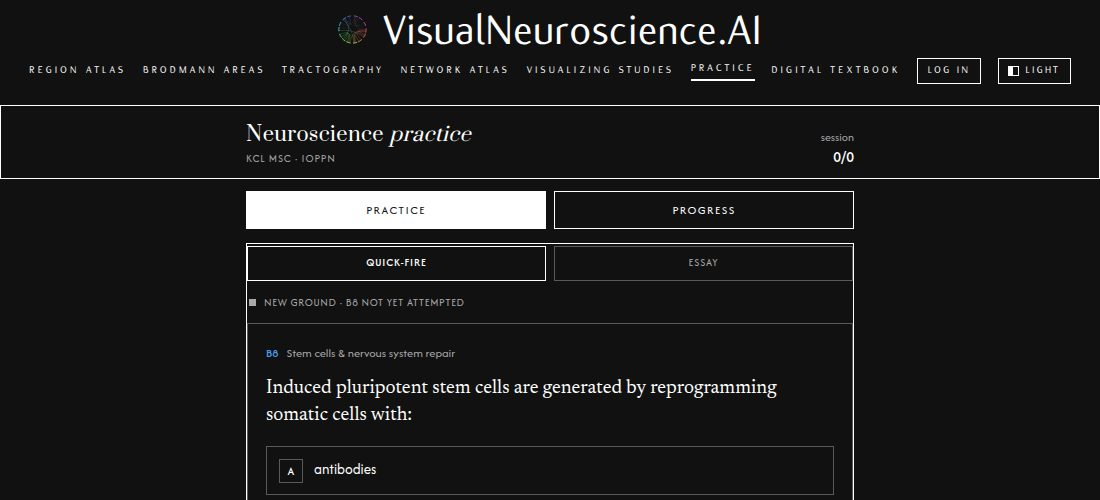
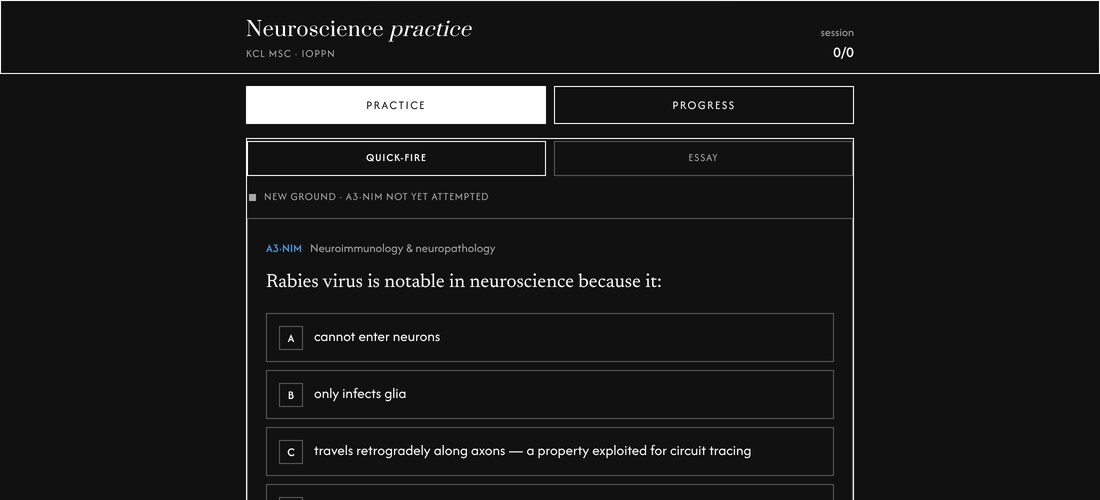
Give every home-page picture a twin drawn on the paper for the light theme, on the website and in the app
The boxes on the home page and in the app's tabs showed renders on black whichever theme was on. Each picture now has a twin for the light theme, shot from the live pages by a new script, app/scripts/shoot-home-pictures.js, as the atlas's was: the Brodmann map in its lobes' colours with ink lines, the ring and the brain on the light scan, the neuron on paper, the receptor on the viewer's light gradient, the tractogram on white, the study's two views in the light theme, the practice page in its light dress and the book's cover on white; the practice page and the study are retaken in both themes so the pairs match. The website shows the twin that matches the theme with the plate following the paper, the app through Shot's light twin, and the service worker's version moves on.

diff --git a/app/scripts/shoot-home-pictures.js b/app/scripts/shoot-home-pictures.js
@@ -1,0 +1,182 @@
+/* The home page's pictures for the light theme, from the live pages.
+
+     cd app && node scripts/shoot-home-pictures.js [name ...]
+
+   Serves nothing itself: the site must be up on http://127.0.0.1:8412, as
+   for shoot-store.js and shoot-home-atlas.js, and ImageMagick's convert
+   must be on the path. Every box on the home page and in the app's tabs
+   shows a render on black; in the light theme each has a twin drawn on the
+   paper, which this writes, at the dark picture's size, so the pair swap
+   with the theme (index.html, Shell.swift). The two that are page captures
+   rather than renders, the practice page and the Hallucinations study, are
+   retaken in both themes so the pair match; the textbook's cover is set on
+   white from the dark picture itself; the Region Atlas has its own script.
+   Names narrow the run: brodmann, network, cells, molecular, tracts,
+   studies, practice, textbook. */
+const path = require('path'), fs = require('fs'), { execSync } = require('child_process');
+const { chromium } = require(path.join(execSync('npm root -g').toString().trim(), 'playwright'));
+
+const SITE = 'http://127.0.0.1:8412/';
+const HOME = path.join(__dirname, '..', '..', 'site', 'assets', 'home');
+const STUDIES = path.join(__dirname, '..', '..', 'site', 'assets', 'studies');
+const TMP = fs.mkdtempSync(path.join(require('os').tmpdir(), 'vn-shots-'));
+const only = process.argv.slice(2);
+const want = (n) => !only.length || only.includes(n);
+const sh = (cmd) => execSync(cmd, { stdio: ['ignore', 'pipe', 'inherit'] }).toString().trim();
+const tmp = (n) => path.join(TMP, n);
+const size = (f) => sh(`identify -format "%w %h" "${f}"`).split(' ').map(Number);
+const LOBE = { frontal: '#5A61D8', parietal: '#4AE8C3', temporal: '#FF704E', occipital: '#DAD358', cingulate: '#E250A9' };
+
+async function open(browser, theme, url, viewport, init){
+  const ctx = await browser.newContext({ viewport, deviceScaleFactor: 2 });
+  await ctx.addInitScript((t) => { try { localStorage.setItem('vn-news', JSON.stringify({ done: true })); localStorage.setItem('mn-theme', t); localStorage.setItem('mn-rx-picker', 'hidden'); } catch (e) {} }, theme);
+  if (init) await ctx.addInitScript(init);
+  const page = await ctx.newPage();
+  const problems = [];
+  page.on('pageerror', e => problems.push('pageerror: ' + e.message));
+  await page.goto(SITE + url, { waitUntil: 'load', timeout: 180000 });
+  await page.addStyleTag({ content: '#status.hidden, .vn-news{display:none!important}' });
+  return { ctx, page, problems };
+}
+/* a live render redraws every frame, which an element screenshot takes for
+   an element still moving and waits on; a page screenshot clipped to the
+   element's box does not */
+async function shotOf(page, selector, file){
+  const el = page.locator(selector).first();
+  await el.scrollIntoViewIfNeeded();
+  await page.waitForTimeout(400);
+  const box = await el.boundingBox(), vp = page.viewportSize();
+  const x = Math.max(0, Math.round(box.x)), y = Math.max(0, Math.round(box.y));
+  const w = Math.min(Math.round(box.width), vp.width - x), h = Math.min(Math.round(box.height), vp.height - y);
+  /* a software renderer composites a big canvas slowly: the shot is given minutes, not seconds */
+  await page.screenshot({ path: file, clip: { x, y, width: w, height: h }, timeout: 300000 });
+}
+function done(file, problems){ const [w, h] = size(file); console.log(path.basename(file), w + 'x' + h, 'problems', JSON.stringify(problems)); }
+
+(async () => {
+  const browser = await chromium.launch({ executablePath: '/opt/pw-browsers/chromium', args: ['--enable-unsafe-swiftshader', '--use-angle=swiftshader', '--ignore-gpu-blocklist'] });
+
+  /* the Brodmann map, every area filled in its lobe's colour, ink lines on paper */
+  if (want('brodmann')){
+    const { ctx, page, problems } = await open(browser, 'light', 'brodmann.html', { width: 1440, height: 900 });
+    await page.waitForSelector('#cartLateral svg .ba-tile');
+    await page.evaluate((LOBE) => {
+      document.querySelectorAll('.ba-tile[data-ba]:not(.mute)').forEach(g => {
+        const a = MN_BRODMANN.BY_BA[+g.dataset.ba]; if (!a) return;
+        g.classList.add('on'); g.style.setProperty('--sel', LOBE[a.lobe] || '#5A61D8');
+      });
+      const s = document.createElement('style'); s.textContent = '.cart figcaption{display:none!important}'; document.head.appendChild(s);
+    }, LOBE);
+    await page.waitForTimeout(400);
+    await page.locator('#cartLateral svg').screenshot({ path: tmp('ba-lat.png') });
+    await page.locator('#cartMedial svg').screenshot({ path: tmp('ba-med.png') });
+    const out = path.join(HOME, 'brodmann-light.jpg');
+    sh(`convert \\( "${tmp('ba-lat.png')}" -resize 850x \\) \\( -size 60x10 xc:white \\) \\( "${tmp('ba-med.png')}" -resize 850x \\) -background white -gravity center +append -extent 1804x818 -resize 902x409! -quality 88 "${out}"`);
+    done(out, problems); await ctx.close();
+  }
+
+  /* the Network Atlas: the ring and the brain, the scan on white in the light theme */
+  if (want('network')){
+    const { ctx, page, problems } = await open(browser, 'light', 'network-atlas.html', { width: 1440, height: 1100 });
+    await page.waitForFunction(() => document.getElementById('status').classList.contains('hidden'), null, { timeout: 400000 });
+    await page.waitForTimeout(3000);
+    await shotOf(page, '#ring', tmp('ring.png'));
+    await shotOf(page, '.view[data-box="render"] .mri-stage', tmp('net-ren.png'));
+    const out = path.join(HOME, 'network-light.jpg');
+    sh(`convert \\( "${tmp('ring.png')}" -resize 818x818^ -gravity center -extent 818x818 \\) \\( "${tmp('net-ren.png')}" -shave 3x3 -resize 986x818^ -gravity center -extent 986x818 \\) -background white +append -resize 902x409! -quality 88 "${out}"`);
+    done(out, problems); await ctx.close();
+  }
+
+  /* the neuron, close on the cell body as the dark picture is */
+  if (want('cells')){
+    const { ctx, page, problems } = await open(browser, 'light', 'microanatomy.html', { width: 2600, height: 1800 });
+    await page.waitForSelector('#plate [data-vis="soma"]');
+    await page.waitForTimeout(600);
+    const box = await page.evaluate(() => {
+      const svg = document.getElementById('plate').getBoundingClientRect(), s = document.querySelector('#plate [data-vis="soma"]').getBoundingClientRect();
+      return { sx: s.left - svg.left, sy: s.top - svg.top, sw: s.width, sh: s.height, w: svg.width, h: svg.height };
+    });
+    await page.locator('#plate').screenshot({ path: tmp('plate.png') });
+    const k = 2, W = Math.round(box.sw * k / 0.17), H = Math.round(W * 409 / 902);
+    const cx = (box.sx + box.sw / 2) * k, cy = (box.sy + box.sh / 2) * k;
+    const x = Math.max(0, Math.round(cx - W * 0.54)), y = Math.max(0, Math.round(cy - H * 0.5));
+    const out = path.join(HOME, 'cells-light.jpg');
+    sh(`convert "${tmp('plate.png')}" -crop ${W}x${H}+${x}+${y} +repage -background white -gravity center -extent ${W}x${H} -resize 902x409! -quality 88 "${out}"`);
+    done(out, problems); await ctx.close();
+  }
+
+  /* the molecular viewer on its own, its panel and picker folded so the
+     receptor stands centred on the light gradient, close in */
+  if (want('molecular')){
+    const { ctx, page, problems } = await open(browser, 'light', 'assets/molecular/receptors.html?panel=hidden&picker=hidden', { width: 1440, height: 900 });
+    await page.waitForSelector('#bar', { timeout: 120000 });
+    await page.waitForTimeout(12000);
+    await page.screenshot({ path: tmp('mol.png') });
+    const [w, h] = size(tmp('mol.png'));
+    /* a little above centre, so the binding site's label at the foot stays out of the frame */
+    const W = Math.round(w * 0.5), H = Math.round(W * 409 / 902), x = Math.round((w - W) / 2), y = Math.round((h - H) / 2 - H * 0.08);
+    const out = path.join(HOME, 'molecular-light.jpg');
+    sh(`convert "${tmp('mol.png')}" -crop ${W}x${H}+${x}+${y} +repage -resize 902x409! -quality 88 "${out}"`);
+    done(out, problems); await ctx.close();
+  }
+
+  /* the tractogram on white: the page registers each viewer with
+     MN_LIFE as it attaches, so a wrapper on that register catches them,
+     and once the streamlines are in they are asked for a white back */
+  if (want('tracts')){
+    const catchLife = `(() => { let real; Object.defineProperty(window, 'MN_LIFE', { configurable: true, get(){ return real; }, set(v){ real = v; if (v && typeof v.register === 'function'){ const reg = v.register; v.register = function(nv){ (window.__nvs = window.__nvs || []).push(nv); return reg.apply(this, arguments); }; } } }); })();`;
+    const { ctx, page, problems } = await open(browser, 'light', 'tracts.html', { width: 1240, height: 1100 }, catchLife);
+    await page.waitForFunction(() => document.getElementById('stageMsg').classList.contains('hidden'), null, { timeout: 500000 });
+    await page.waitForTimeout(2000);
+    await page.evaluate(() => {
+      const s = document.createElement('style'); s.textContent = '.views .view[data-box="Ren"] .mri-stage{background:#FFFFFF!important}'; document.head.appendChild(s);
+      (window.__nvs || []).forEach(nv => { nv.opts.backColor = [1, 1, 1, 1]; nv.drawScene(); });
+    });
+    await page.waitForTimeout(1500);
+    await shotOf(page, '.view[data-box="Ren"] .mri-stage', tmp('tracts.png'));
+    const out = path.join(HOME, 'tracts-light.jpg');
+    sh(`convert "${tmp('tracts.png')}" -resize 1200x700^ -gravity center -extent 1200x700 -quality 88 "${out}"`);
+    done(out, problems); await ctx.close();
+  }
+
+  /* the Hallucinations study, the 3D view and the axial view side by side, in both themes */
+  if (want('studies')){
+    for (const [theme, file] of [['dark', 'hallucinations.png'], ['light', 'hallucinations-light.png']]){
+      const { ctx, page, problems } = await open(browser, theme, 'hallucinations.html', { width: 1440, height: 1000 });
+      /* the page says Loading in its scan note while the volumes come, then names the scan again */
+      await page.waitForFunction(() => /Loading/.test(document.getElementById('scan-note').textContent), null, { timeout: 15000 }).catch(() => {});
+      await page.waitForFunction(() => !/Loading/.test(document.getElementById('scan-note').textContent), null, { timeout: 400000 });
+      await page.waitForTimeout(3000);
+      await shotOf(page, '.view[data-box="render"]', tmp('hx-ren.png'));
+      await shotOf(page, '.view[data-box="axial"]', tmp('hx-ax.png'));
+      const [w] = size(tmp('hx-ren.png')), H = Math.round(w / 1.1);
+      const out = path.join(STUDIES, file);
+      sh(`convert \\( "${tmp('hx-ren.png')}" -gravity North -crop ${w}x${H}+0+0 +repage \\) \\( -size 8x10 xc:${theme === 'dark' ? 'black' : 'white'} \\) \\( "${tmp('hx-ax.png')}" -gravity North -crop ${w}x${H}+0+0 +repage \\) -background ${theme === 'dark' ? 'black' : 'white'} +append -resize 902x409! "${out}"`);
+      done(out, problems); await ctx.close();
+    }
+  }
+
+  /* the practice page from its own head down, in both themes */
+  if (want('practice')){
+    for (const [theme, file] of [['dark', 'practice.jpg'], ['light', 'practice-light.jpg']]){
+      const { ctx, page, problems } = await open(browser, theme, 'practice.html', { width: 1100, height: 1000 });
+      await page.waitForSelector('#qcard .qtext, #qcard .q, #qcard h2, #qcard p', { timeout: 20000 }).catch(() => {});
+      await page.waitForTimeout(1500);
+      const top = await page.evaluate(() => Math.round(document.querySelector('.qhead').getBoundingClientRect().top + window.scrollY));
+      await page.screenshot({ path: tmp('practice.png'), clip: { x: 0, y: top, width: 1100, height: 500 } });
+      const out = path.join(HOME, file);
+      sh(`convert "${tmp('practice.png')}" -resize 1100x500! -quality 88 "${out}"`);
+      done(out, problems); await ctx.close();
+    }
+  }
+
+  /* the book's cover on white, cut from the dark picture */
+  if (want('textbook')){
+    const out = path.join(HOME, 'textbook-light.jpg');
+    sh(`convert "${path.join(HOME, 'textbook.jpg')}" -crop 358x464+372+22 +repage -background white -gravity center -extent 1100x508 -quality 90 "${out}"`);
+    done(out, []);
+  }
+
+  await browser.close();
+  console.log('ALL DONE');
+})().catch(e => { console.error('SCRIPT ERROR', e); process.exit(1); });

diff --git a/site/index.html b/site/index.html
@@ -244,13 +244,14 @@ img{ max-width:100%; height:auto; display:block; }
   border:1px solid var(--ink-35); background:#000000;
 }
 .shot img{ width:100%; height:auto; display:block; }
-/* The Region Atlas draws on white in the light theme, so its picture has a
-   twin for each theme and its plate follows the paper. The twin not shown
-   is not fetched until the theme turns to it. */
-.shot .for-light{ display:none; }
-:root:not([data-theme="dark"]) .shot.themed{ background:var(--paper); }
-:root:not([data-theme="dark"]) .shot .for-dark{ display:none; }
-:root:not([data-theme="dark"]) .shot .for-light{ display:block; }
+/* Every picture has a twin for the light theme, drawn on the paper (the
+   atlas's by app/scripts/shoot-home-atlas.js, the rest by
+   shoot-home-pictures.js), and the plate it sits on follows the paper. The
+   twin not shown is not fetched until the theme turns to it. */
+.shot .for-light, .plate .for-light{ display:none; }
+:root:not([data-theme="dark"]) .shot.themed, :root:not([data-theme="dark"]) .plate.themed{ background:var(--paper); }
+:root:not([data-theme="dark"]) .shot.themed .for-dark, :root:not([data-theme="dark"]) .plate.themed .for-dark{ display:none; }
+:root:not([data-theme="dark"]) .shot.themed .for-light, :root:not([data-theme="dark"]) .plate.themed .for-light{ display:block; }
 /* the lead box is as tall as the two beside it; with a short standfirst
    the figure follows the text and the slack sits beneath it */
 .m-atlas .fig{ margin-top:1.4rem; align-items:flex-start; }
@@ -404,7 +405,7 @@ img{ max-width:100%; height:auto; display:block; }
         <div class="meta">41 areas &middot; both faces &middot; what each one does</div>
         <div class="go">Open the map &rarr;</div>
       </div>
-      <div class="plate"><img src="assets/home/brodmann.jpg" alt="" loading="lazy" decoding="async" width="902" height="409"></div>
+      <div class="plate themed"><img class="for-dark" src="assets/home/brodmann.jpg" alt="" loading="lazy" decoding="async" width="902" height="409"><img class="for-light" src="assets/home/brodmann-light.jpg" alt="" loading="lazy" decoding="async" width="902" height="409"></div>
     </a>
 
     <!-- ── the ring ───────────────────────────────────────────────── -->
@@ -412,7 +413,7 @@ img{ max-width:100%; height:auto; display:block; }
       <div class="kicker">Systems</div>
       <h2>Network Atlas</h2>
       <p>The brain&rsquo;s large-scale networks in six states, from flow to meditation, mapped onto the scan.</p>
-      <div class="plate"><img src="assets/home/network.jpg" alt="" loading="lazy" decoding="async" width="902" height="409"></div>
+      <div class="plate themed"><img class="for-dark" src="assets/home/network.jpg" alt="" loading="lazy" decoding="async" width="902" height="409"><img class="for-light" src="assets/home/network-light.jpg" alt="" loading="lazy" decoding="async" width="902" height="409"></div>
       <div class="meta">6 states &middot; 7 systems &middot; 20 nodes</div>
       <div class="go">Open the ring &rarr;</div>
     </a>
@@ -423,7 +424,7 @@ img{ max-width:100%; height:auto; display:block; }
       <h2>Tractography</h2>
       <p>The white matter&rsquo;s million fibre pathways, from the HCP1065 population average, in full 3D.</p>
       <div class="fig" aria-hidden="true">
-        <span class="shot"><img src="assets/home/tracts.jpg" alt="" loading="lazy" decoding="async" width="1200" height="700"></span>
+        <span class="shot themed"><img class="for-dark" src="assets/home/tracts.jpg" alt="" loading="lazy" decoding="async" width="1200" height="700"><img class="for-light" src="assets/home/tracts-light.jpg" alt="" loading="lazy" decoding="async" width="1200" height="700"></span>
       </div>
       <div class="meta">Direction-coloured streamlines &middot; free rotation</div>
       <div class="go">Open the tractogram &rarr;</div>
@@ -439,7 +440,7 @@ img{ max-width:100%; height:auto; display:block; }
         <div class="meta">1 study drawn &middot; more to come</div>
         <div class="go">Open the shelf &rarr;</div>
       </div>
-      <div class="plate"><img src="assets/studies/hallucinations.png" alt="" loading="lazy" decoding="async" width="902" height="409"></div>
+      <div class="plate themed"><img class="for-dark" src="assets/studies/hallucinations.png" alt="" loading="lazy" decoding="async" width="902" height="409"><img class="for-light" src="assets/studies/hallucinations-light.png" alt="" loading="lazy" decoding="async" width="902" height="409"></div>
     </a>
 
     <!-- ── the cells ──────────────────────────────────────────────── -->
@@ -451,7 +452,7 @@ img{ max-width:100%; height:auto; display:block; }
         <div class="meta">2 cells drawn &middot; 37 structures &middot; explore and test modes</div>
         <div class="go">Open the cell &rarr;</div>
       </div>
-      <div class="plate"><img src="assets/home/cells.jpg" alt="" loading="lazy" decoding="async" width="902" height="409"></div>
+      <div class="plate themed"><img class="for-dark" src="assets/home/cells.jpg" alt="" loading="lazy" decoding="async" width="902" height="409"><img class="for-light" src="assets/home/cells-light.jpg" alt="" loading="lazy" decoding="async" width="902" height="409"></div>
     </a>
 
     <!-- ── the molecules ──────────────────────────────────────────── -->
@@ -463,7 +464,7 @@ img{ max-width:100%; height:auto; display:block; }
         <div class="meta">17 receptors &middot; 39 structures &middot; 24 drugs &middot; binding tour &middot; compare</div>
         <div class="go">Open the receptors &rarr;</div>
       </div>
-      <div class="plate"><img src="assets/home/molecular.jpg" alt="" loading="lazy" decoding="async" width="902" height="409"></div>
+      <div class="plate themed"><img class="for-dark" src="assets/home/molecular.jpg" alt="" loading="lazy" decoding="async" width="902" height="409"><img class="for-light" src="assets/home/molecular-light.jpg" alt="" loading="lazy" decoding="async" width="902" height="409"></div>
     </a>
 
     <!-- ── the practice ───────────────────────────────────────────── -->
@@ -472,7 +473,7 @@ img{ max-width:100%; height:auto; display:block; }
       <h2>Neuroscience Practice</h2>
       <p>Adaptive multiple-choice revision built for the KCL MSc Neuroscience syllabus.</p>
       <div class="fig" aria-hidden="true">
-        <span class="shot"><img src="assets/home/practice.jpg" alt="" loading="lazy" decoding="async" width="1100" height="500"></span>
+        <span class="shot themed"><img class="for-dark" src="assets/home/practice.jpg" alt="" loading="lazy" decoding="async" width="1100" height="500"><img class="for-light" src="assets/home/practice-light.jpg" alt="" loading="lazy" decoding="async" width="1100" height="500"></span>
       </div>
       <div class="meta">Adaptive questions &middot; session score &middot; explanations</div>
       <div class="go">Start practising &rarr;</div>
@@ -484,7 +485,7 @@ img{ max-width:100%; height:auto; display:block; }
       <h2>Digital Textbook</h2>
       <p>OpenStax&rsquo;s complete <em>Introduction to Behavioral Neuroscience</em>, in the site&rsquo;s own pages.</p>
       <div class="fig" aria-hidden="true">
-        <span class="shot"><img src="assets/home/textbook.jpg" alt="" loading="lazy" decoding="async" width="1100" height="508"></span>
+        <span class="shot themed"><img class="for-dark" src="assets/home/textbook.jpg" alt="" loading="lazy" decoding="async" width="1100" height="508"><img class="for-light" src="assets/home/textbook-light.jpg" alt="" loading="lazy" decoding="async" width="1100" height="508"></span>
       </div>
       <div class="meta">19 chapters &middot; 85 sections &middot; 506 figures &middot; CC BY-NC-SA</div>
       <div class="go">Open the book &rarr;</div>

diff --git a/app/ios/App/App/Shell.swift b/app/ios/App/App/Shell.swift
@@ -116,27 +116,27 @@ struct AtlasTab: View {
                     go: "Open the atlas")
             PageBox(page: .brodmann, kicker: "Cytoarchitecture",
                     text: "Brodmann’s 41 areas of the cortex on a map of both faces of the hemisphere. Tap one and what it does appears beside it.",
-                    shot: Shot("assets/home/brodmann.jpg"),
+                    shot: Shot("assets/home/brodmann.jpg", light: "assets/home/brodmann-light.jpg"),
                     meta: "41 areas · both faces · what each one does",
                     go: "Open the map")
             PageBox(page: .microanatomy, kicker: "Under the microscope",
                     text: "The neuron and its synapses at the cell’s scale, down to the neurotransmitters and their receptors.",
-                    shot: Shot("assets/home/cells.jpg"),
+                    shot: Shot("assets/home/cells.jpg", light: "assets/home/cells-light.jpg"),
                     meta: "2 cells drawn · 37 structures · explore and test modes",
                     go: "Open the cell")
             PageBox(page: .molecular, kicker: "The molecules",
                     text: "The dopamine and serotonin receptors in three dimensions, with the transmitters and drugs that bind them.",
-                    shot: Shot("assets/home/molecular.jpg"),
+                    shot: Shot("assets/home/molecular.jpg", light: "assets/home/molecular-light.jpg"),
                     meta: "17 receptors · 39 structures · 24 drugs · binding tour · compare",
                     go: "Open the receptors")
             PageBox(page: .tractography, kicker: "White matter",
                     text: "The white matter’s million fibre pathways, from the HCP1065 population average, in full 3D.",
-                    shot: Shot("assets/home/tracts.jpg"),
+                    shot: Shot("assets/home/tracts.jpg", light: "assets/home/tracts-light.jpg"),
                     meta: "Direction-coloured streamlines · free rotation",
                     go: "Open the tractogram")
             PageBox(page: .networkAtlas, kicker: "Systems",
                     text: "The brain’s large-scale networks in six states, from flow to meditation, mapped onto the scan.",
-                    shot: Shot("assets/home/network.jpg"),
+                    shot: Shot("assets/home/network.jpg", light: "assets/home/network-light.jpg"),
                     meta: "6 states · 7 systems · 20 nodes",
                     go: "Open the ring")
         }
@@ -149,12 +149,12 @@ struct LibraryTab: View {
         TabPage {
             PageBox(page: .studies, kicker: "The Papers",
                     text: "Published neuroimaging studies drawn directly on the brain, region by region.",
-                    shot: Shot("assets/studies/hallucinations.png"),
+                    shot: Shot("assets/studies/hallucinations.png", light: "assets/studies/hallucinations-light.png"),
                     meta: "1 study drawn · more to come",
                     go: "Open the shelf")
             PageBox(page: .textbook, kicker: "The Book",
                     text: "OpenStax’s complete Introduction to Behavioral Neuroscience, in the site’s own pages.",
-                    shot: Shot("assets/home/textbook.jpg"),
+                    shot: Shot("assets/home/textbook.jpg", light: "assets/home/textbook-light.jpg"),
                     meta: "19 chapters · 85 sections · 506 figures · CC BY-NC-SA",
                     go: "Open the book")
             PageBox(page: .posters, kicker: "On paper",
@@ -172,7 +172,7 @@ struct PracticeTab: View {
         TabPage {
             PageBox(page: .practice, kicker: "Revision", title: "Neuroscience Practice",
                     text: "Adaptive multiple-choice revision built for the KCL MSc Neuroscience syllabus.",
-                    shot: Shot("assets/home/practice.jpg"),
+                    shot: Shot("assets/home/practice.jpg", light: "assets/home/practice-light.jpg"),
                     meta: "Adaptive questions · session score · explanations",
                     go: "Start practising")
         }

diff --git a/site/sw.js b/site/sw.js
@@ -25,19 +25,19 @@
    Nothing cross-origin is touched at all — since the typefaces moved
    in-house there is no outside request left to think about. */
 
-var VERSION = "vn-190";
+var VERSION = "vn-191";
 var SHELL   = VERSION + "-shell";
 var BULK    = VERSION + "-bulk";
 
 /* the pages and the small files they need to draw at all */
 var PRECACHE = [
-  "/", "/index.html", "/regions.html", "/brodmann.html", "/assets/home/brodmann.jpg",
+  "/", "/index.html", "/regions.html", "/brodmann.html", "/assets/home/brodmann.jpg", "/assets/home/brodmann-light.jpg",
   "/network-atlas.html", "/tracts.html", "/studies.html", "/hallucinations.html",
-  "/privacy.html", "/terms.html", "/delete-account.html", "/account.html", "/about.html", "/mcp.html", "/connect.html", "/practice.html", "/assets/home/practice.jpg",
-  "/textbook.html", "/assets/home/textbook.jpg", "/assets/textbook.css", "/assets/textbook.js",
+  "/privacy.html", "/terms.html", "/delete-account.html", "/account.html", "/about.html", "/mcp.html", "/connect.html", "/practice.html", "/assets/home/practice.jpg", "/assets/home/practice-light.jpg",
+  "/textbook.html", "/assets/home/textbook.jpg", "/assets/home/textbook-light.jpg", "/assets/textbook.css", "/assets/textbook.js",
   "/posters.html", "/assets/posters/neurotransmitters.jpg", "/assets/posters/receptors.jpg", "/assets/posters/home.jpg",
-  "/microanatomy.html", "/assets/home/cells.jpg", "/assets/cells.js",
-  "/molecular.html", "/assets/home/molecular.jpg", "/assets/home/network.jpg",
+  "/microanatomy.html", "/assets/home/cells.jpg", "/assets/home/cells-light.jpg", "/assets/cells.js",
+  "/molecular.html", "/assets/home/molecular.jpg", "/assets/home/molecular-light.jpg", "/assets/home/network.jpg", "/assets/home/network-light.jpg",
   "/assets/cells/multipolar-neuron.svg", "/assets/cells/multipolar-neuron.json",
   "/assets/nt.js", "/assets/nt/molecules.json",
   "/assets/rx.js", "/assets/rxfig.js", "/assets/rxfig.css", "/assets/rx/receptors.json",

diff --git a/docs/RELEASES.md b/docs/RELEASES.md
@@ -11,8 +11,13 @@ text below. Both can also be run from a clone on a machine that can push.
 
 Versions before v8.6 were released without a ledger and are not recorded.
 
+## v11.67 — 23 October 2026 — Pictures for the light theme
+Commit · Give every home-page picture a twin drawn on the paper for the light theme, on the website and in the app
+
+The boxes on the home page and in the app's tabs showed renders on black whichever theme was on, and in the light theme the black plates sat heavily on the paper. Every picture now has a twin for the light theme, drawn on white from the live pages: the Brodmann map in its lobes' colours with ink lines, the network ring and the brain on the light scan, the neuron on paper, the receptor on the viewer's light gradient, the tractogram on white, the Hallucinations study's views in the light theme, the practice page in its light dress and the book's cover on white. The website and the app each show the twin that matches the theme, and the plate under it follows the paper, as the 3D Region Atlas's picture has since v10.
+
 ## v11.66 — 23 October 2026 — The brain always on show
-Commit · Keep the Brodmann Area Atlas's brain in 3D on show on an iPad and a computer, the faces cut to their drawings
+Commit `60eaad4` · Keep the Brodmann Area Atlas's brain in 3D on show on an iPad and a computer, the faces cut to their drawings
 
 On an iPad or a computer the Brodmann Area Atlas no longer hides its brain behind a button: the picked area lit on the MNI152 brain in 3D is a box of its own, always on show, loaded with the page. The two faces of the map are cut to their drawings, each box the shape of its face, so the room they left empty goes to the brain. Held upright, the faces stand beside the reading and the brain takes the whole width beneath them; held sideways, or on a computer, the faces stand down the right at the width that fills the height, smaller than before, and the brain sits under the reading at the left. A phone keeps Show in 3D and the panel that rises over the map.
 

diff --git a/CLAUDE.md b/CLAUDE.md
@@ -38,7 +38,11 @@ Read this first in every session. It is the handover; nothing else needs pasting
   Account, each a page of boxes in the home page's words with no header of its own (the tab bar names it), each box
   pushing a web page in a Capacitor bridge of its own. A page inside the tabs carries `data-shell="tabs"` and draws
   no web bar (`navbar.js`); the theme is the shell's (Account). When a home-page box's text or picture changes,
-  change its twin in `Shell.swift` too. The About tab leads with the MCP server since v11.36, and the website's About
+  change its twin in `Shell.swift` too. Every box's picture has a twin for the light theme since v11.67
+  (`assets/home/*-light.jpg`, `assets/studies/hallucinations-light.png`), shot from the live pages by
+  `app/scripts/shoot-home-pictures.js` (the atlas's by `shoot-home-atlas.js`); the website swaps them by theme
+  (`.shot.themed` and `.plate.themed` in `index.html`, the plate following the paper) and the app through
+  `Shot(dark, light:)`. Retake a twin whenever its page's look changes. The About tab leads with the MCP server since v11.36, and the website's About
   page opens with the same box (`.mcp-box` in `about.html`, hidden inside the app's tabs), as the Vision Pro console's
   About window does with a card of its own (`vision-about.html`, since v11.37). Android keeps the web bar. On an iPad the pages fill the screen: the shell
   also marks them `data-shell-pad`, the system bar shows no title there, and the page's title strip steps aside
